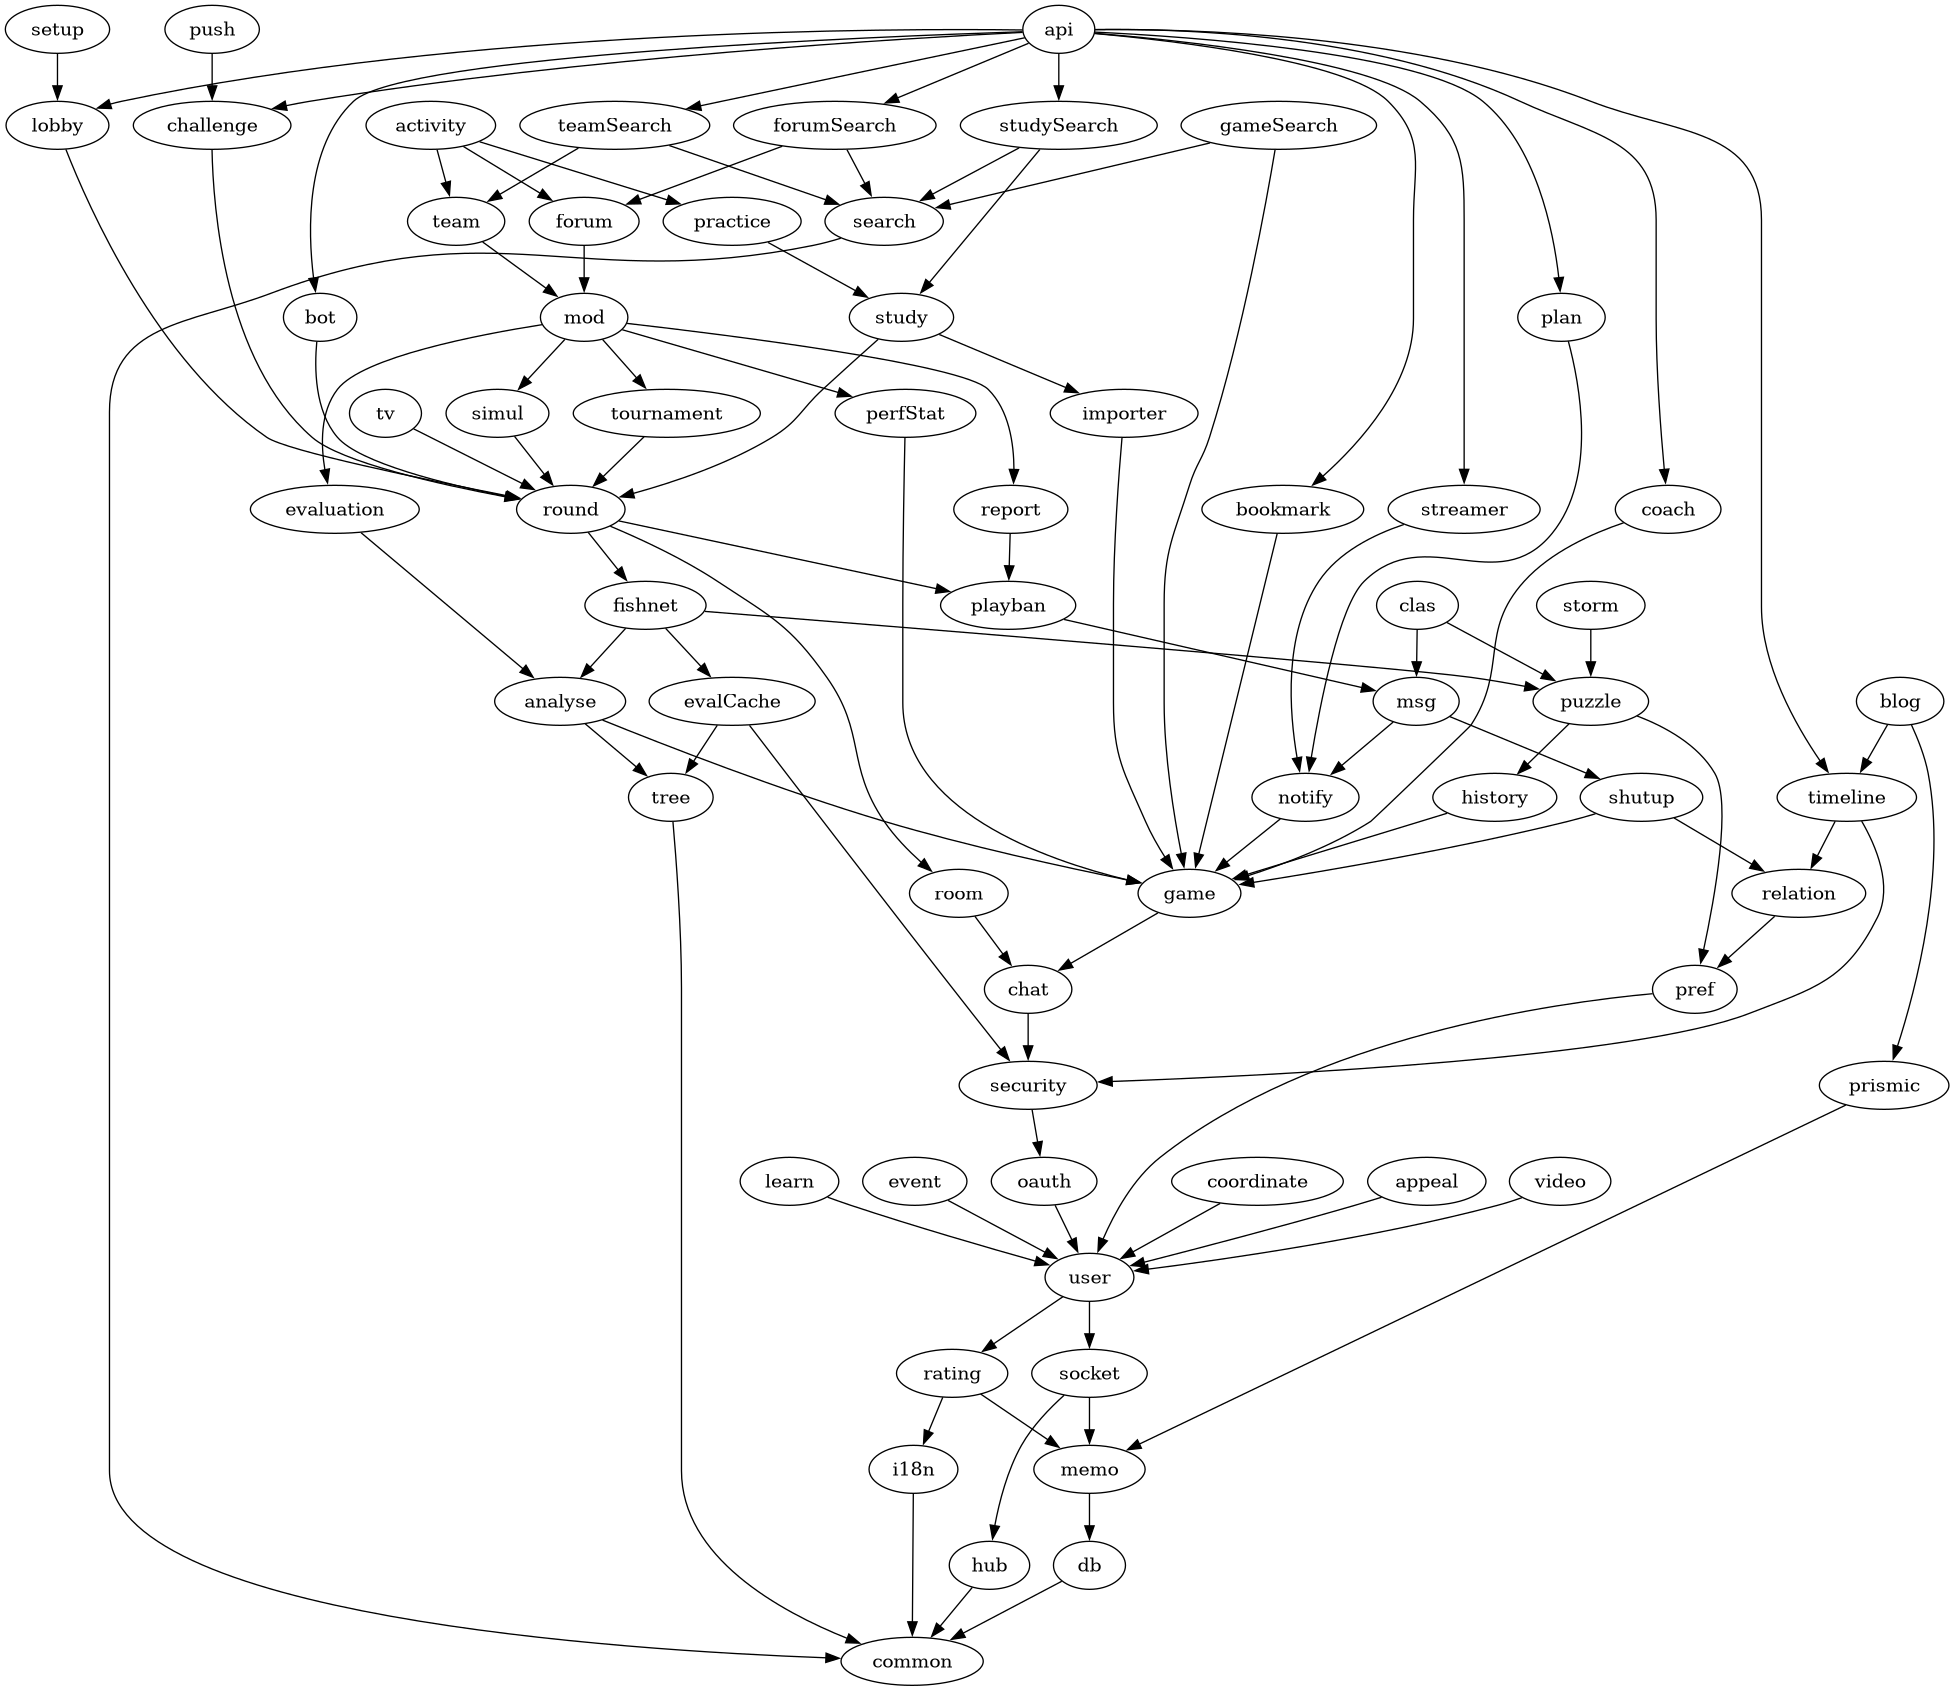
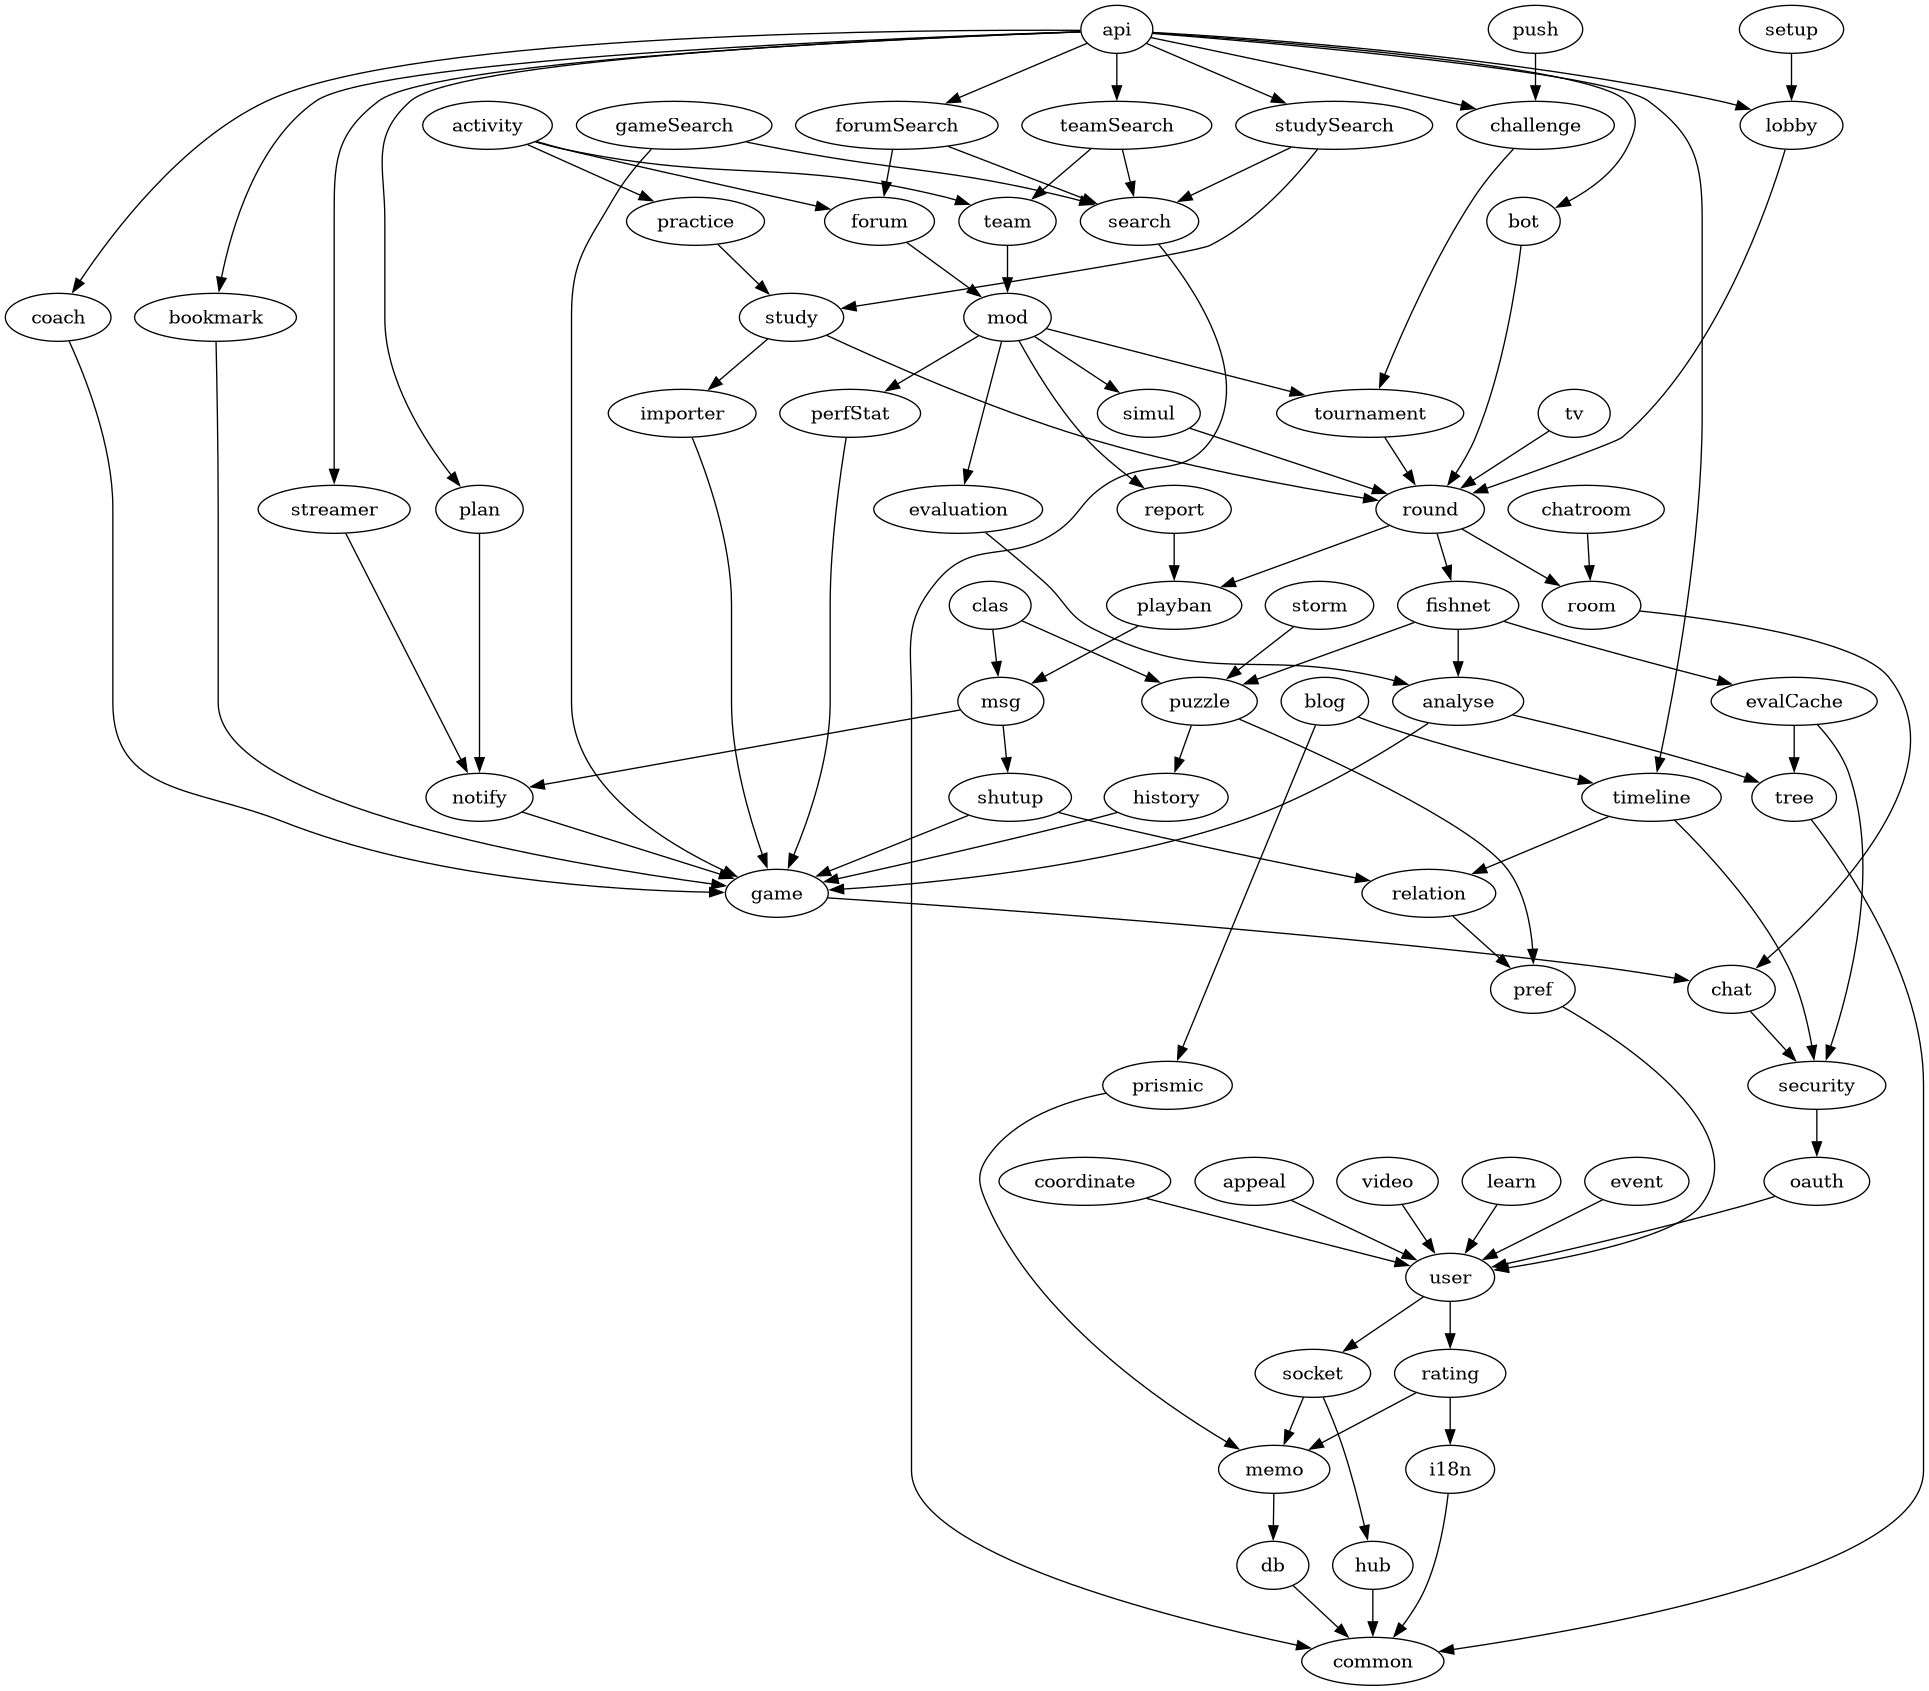
Add chatroom

diff --git a/ui/chat/src/ctrl.ts b/ui/chat/src/ctrl.ts
@@ -20,6 +20,7 @@ export default function (opts: ChatOpts, redraw: Redraw): ChatCtrl {
   data.domVersion = 1; // increment to force redraw
   const maxLines = 200;
   const maxLinesDrop = 50; // how many lines to drop at once
+  data.maxLineLength = 140;
 
   const palantir = {
     instance: undefined,
@@ -52,8 +53,8 @@ export default function (opts: ChatOpts, redraw: Redraw): ChatCtrl {
   const post = (text: string): void => {
     text = text.trim();
     if (!text) return;
-    if (text.length > 140) {
-      alert(`Max length: 140 chars. ${text.length} chars used.`);
+    if (text.length > data.maxLineLength) {
+      alert(`Max length: ${data.maxLineLength} chars. ${text.length} chars used.`);
       return;
     }
     li.pubsub.emit('socket.send', 'talk', text);
@@ -73,6 +74,12 @@ export default function (opts: ChatOpts, redraw: Redraw): ChatCtrl {
       vm.timeout = false;
       redraw();
     }
+  };
+
+  const onClear = () => {
+    data.lines = [];
+    data.domVersion++;
+    redraw();
   };
 
   const onMessage = (line: Line) => {
@@ -127,6 +134,7 @@ export default function (opts: ChatOpts, redraw: Redraw): ChatCtrl {
     ['socket.in.message', onMessage],
     ['socket.in.chat_timeout', onTimeout],
     ['socket.in.chat_reinstate', onReinstate],
+    ['socket.in.chat_clear', onClear],
     ['chat.writeable', onWriteable],
     ['chat.permissions', onPermissions],
     ['palantir.toggle', palantir.enabled],

diff --git a/ui/misc/css/build/chatroom.scss b/ui/misc/css/build/chatroom.scss
@@ -1,0 +1,62 @@
+@use 'pkg:breakpoint-sass' as breakpoint;
+@use 'pkg:common/abstract/extends';
+@use 'pkg:common/abstract/variables';
+@use 'pkg:common/abstract/uniboard';
+@use 'pkg:common/theme';
+@use 'pkg:chat/chat';
+
+main.chat-room {
+  height: calc(100vh - #{variables.$site-header-outer-height} - #{variables.$block-gap});
+  display: flex;
+  flex-direction: column;
+
+  .chat__members {
+    @extend %box-neat-top;
+
+    display: flex;
+    align-items: center;
+    height: 3rem;
+    margin: 0 3rem;
+    padding: 0 1.5rem;
+    background: theme.$c-bg-zebra2;
+
+    .title {
+      margin-right: 0.5rem;
+    }
+  }
+
+  .chat-room__content {
+    min-height: 0;
+    height: 100%;
+
+    @include breakpoint.breakpoint(uniboard.$mq-col2-uniboard) {
+      margin: 0 3rem 1.5rem 3rem;
+    }
+
+    .mchat {
+      @extend %box-radius-bottom;
+      height: 100%;
+
+      &__tabs {
+        display: none;
+      }
+
+      &__content {
+        background: theme.$c-bg-zebra;
+      }
+
+      &__messages {
+        max-height: unset;
+
+        li {
+          font-size: 1rem;
+          border-left: 5px solid transparent;
+        }
+      }
+
+      &__say {
+        padding: 0.75rem 0.75rem;
+      }
+    }
+  }
+}

diff --git a/ui/chat/src/discussion.ts b/ui/chat/src/discussion.ts
@@ -292,6 +292,13 @@ function renderLine(ctrl: ChatCtrl, line: Line) {
 
   return h(
     'li',
+    ctrl.opts.withColorTags
+      ? {
+          attrs: {
+            style: `border-color:${userIdToHexColor(line.u)}`,
+          },
+        }
+      : {},
     ctrl.moderation()
       ? [line.u ? modLineAction() : null, userNode, textNode]
       : [
@@ -307,4 +314,15 @@ function renderLine(ctrl: ChatCtrl, line: Line) {
           textNode,
         ],
   );
+}
+
+function userIdToHexColor(userId: string | undefined): string {
+  userId = userId || '';
+  let hash = 0;
+  for (let i = 0; i < userId.length; i++) {
+    hash = userId.charCodeAt(i) + ((hash << 5) - hash);
+  }
+
+  const color = (hash & 0x00ffffff).toString(16).padStart(6, '0');
+  return `#${color}`;
 }

diff --git a/ui/misc/src/build/chatroom.ts b/ui/misc/src/build/chatroom.ts
@@ -1,0 +1,9 @@
+import { makeChat } from 'chat';
+
+function main(data: any) {
+  window.lishogi.socket = new window.lishogi.StrongSocket('/chatroom/socket', data.socketVersion);
+  data.chat.withColorTags = true;
+  data.chat && makeChat(data.chat);
+}
+
+window.lishogi.registerModule(__bundlename__, main);

diff --git a/ui/chat/src/interfaces.ts b/ui/chat/src/interfaces.ts
@@ -17,6 +17,7 @@ export interface ChatOpts {
   noteText?: string;
   plugin?: ChatPlugin;
   alwaysEnabled: boolean;
+  withColorTags?: boolean;
 }
 
 export interface ChatPlugin {

diff --git a/ui/chat/css/_chat.scss b/ui/chat/css/_chat.scss
@@ -11,7 +11,7 @@
 
   grid-area: chat;
   justify-content: stretch;
-  min-height: 15em;
+  min-height: 10em;
 
   &__content {
     @extend %flex-column;
